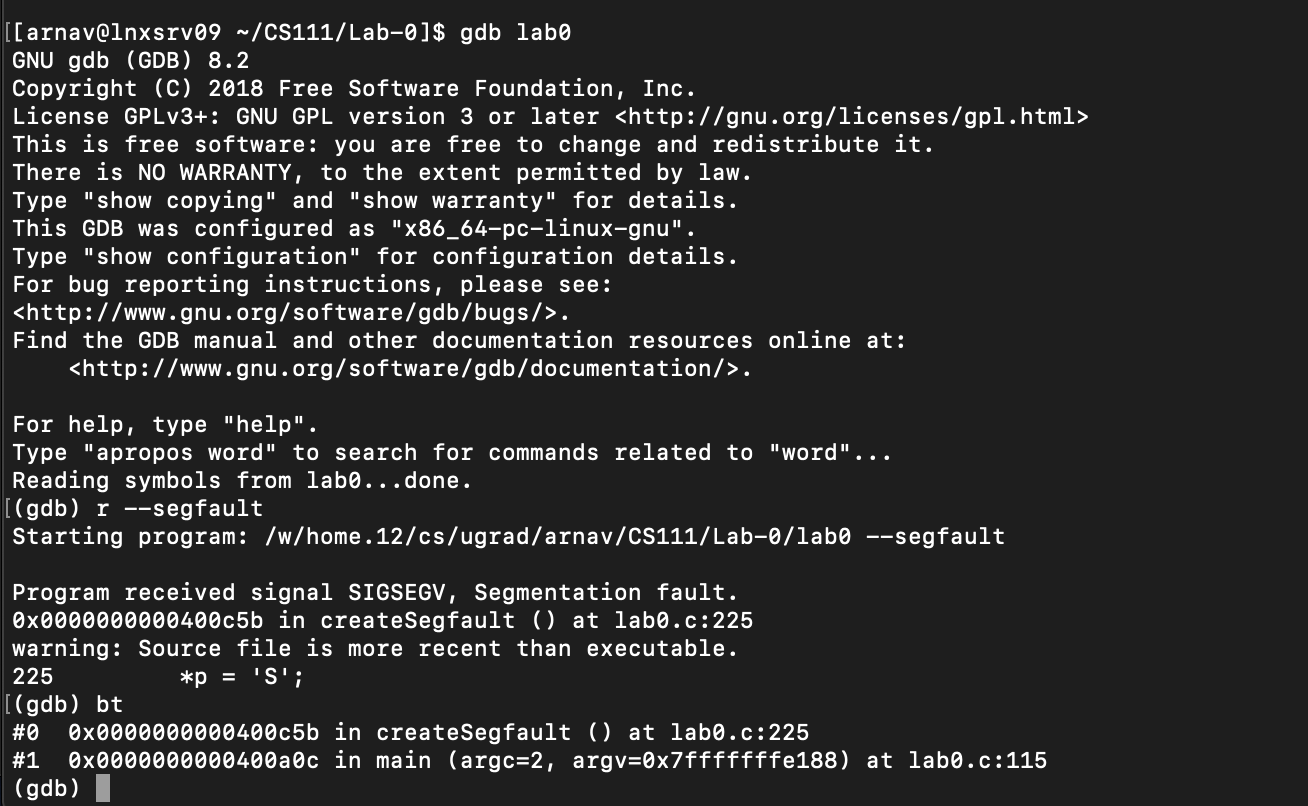
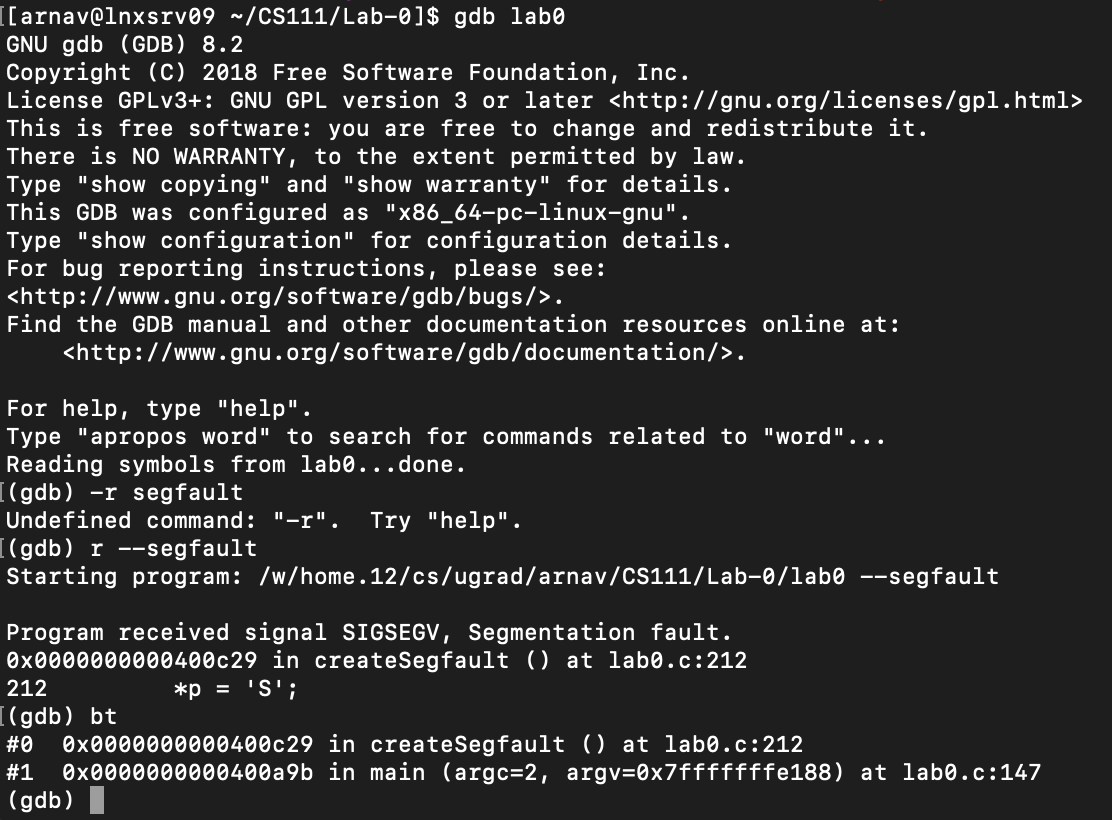
Updated lab0.c and README for Lab-0

Changed region(s): [[0.0, 0.0, 0.9784, 1.0], [0.7032, 0.5273, 0.7644, 0.5583]]

diff --git a/Lab-0/lab0.c b/Lab-0/lab0.c
@@ -60,18 +60,19 @@ int main(int argc, char* argv[]){
         {0,0,0,0}
     };
 
-    //Variables to keep track of 
-    char* infile_name = NULL;
-    char* outfile_name = NULL;
+    //Variables to keep track of:
     int catch_flag = 0;
-    int seg_flag = 0;
-    int dump_flag = 0;
     int choice, outfile_fd, infile_fd;
 
     //int getopt(int argc, char *const argv[], const char *optstring)
     /*int getopt_long(int argc, char * const argv[], const char *optstring, 
                         const struct option *longopts, int *longindex);*/
     //More info: http://man7.org/linux/man-pages/man3/getopt.3.html
+    /*getopt_long works as follows:
+        1. If no options, returns -1 and skips while loop.
+        2. If options, checks if all flags are valid. If yes, then
+        3. Processes each flag in order from left to right
+    */
     while ((choice = getopt_long(argc,argv,"",choices,NULL)) != -1){
         /*Set flags and options correctly so they can be used after the while
         loop*/
@@ -79,115 +80,90 @@ int main(int argc, char* argv[]){
             case input: 
                 /*optarg contains argument for the given flag*/
                 /*incase of error/failure, optarg is set to null*/
-                infile_name = optarg;
+                if (optarg) {
+                    infile_fd = open(optarg, O_RDONLY);
+                    /* 
+                    Spec: File Descriptor Management
+                    int ifd = open(newfile, O_RDONLY);
+                    if (ifd >= 0) {
+	                    close(0);
+	                    dup(ifd);
+	                    close(ifd);
+                    }
+                    */
+                    if (infile_fd >= 0){
+                        //Close stdin and destroy its file table entry
+                        close(0);
+                        //Set infile file_descriptor to 0 (stdin)
+                        dup2(infile_fd,0);
+                        //Close infile_fd
+                        close(infile_fd);
+                    } 
+                    else {
+                        /*If no file found, print to stderr and exit with status 2*/
+                        /*errno is set by system calls and some library functions in the event 
+                        of an error to indicate what went wrong. Don't explicitly define it. */
+                        /*sterror returns a pointer to a string that describes
+                        the error code passed in the argument*/
+                        //Else, infile_fd == -1 which indicates an error while opening the file
+                        fprintf(stderr, "Cannot open input file: %d - %s\n", errno, strerror(errno));
+				        exit(2);
+                    }     
+                }
                 break;
             case output:
-                outfile_name = optarg;
+                if (optarg) {
+                    // Check if file exists and create the file specified 
+                    // if file exists, it is automatically truncated
+                    // Set permissions for the file created to rw-
+                    // creat is the same as open(filepath, O_WRONLY | O_CREAT | O_TRUNC, 0666);
+                    outfile_fd = creat(optarg, 0666);
+                    /* 
+                    Spec: File Descriptor Management
+                    int ofd = creat(newfile, 0666);
+                    if (ofd >= 0) {
+	                    close(1);
+	                    dup(ofd);
+	                    close(ofd);
+                    }
+                    */
+                    //If the returned file descriptor is >= 0
+                    if (outfile_fd >= 0){
+                        //Close stdout and destroy its file table entry
+                        close(1);
+                        //Set outfile's fd to 1 (stdout) + silently close 
+                        dup2(outfile_fd, 1);
+                        //Close outfile_fd
+                        close(outfile_fd);
+                    } else {
+                        //File could not be created/truncated. Print to stderr and exit with status 3.
+                        fprintf(stderr, "Cannot create or truncate output file:  %d - %s\n", errno, strerror(errno));
+                        exit(3);
+                    }
+                }
                 break;
             case segf:
-                seg_flag = 1;
+                //Call the createSegfault() method to immediately cause a segfault.
+                createSegfault();
                 break;
             case catch:
+                //Set catch_flag to 1 (for dump case)
                 catch_flag = 1;
+                /* If a segfault is called after this line, instead of breaking out of the
+                program or going into an infinity loop (depending on the OS), it calls 
+                the segfault_handler method to handle the segmentation fault */
+                signal(SIGSEGV, segfault_handler);
                 break;
             case dump:
-                dump_flag = 1;
+                /*If dump-core is passed in by itself, do nothing
+                If segfault is passed in before dump-core, doesn't matter
+                If catch is passed in before dump-core, call dumpCore method.*/
+                if (catch_flag){dumpCore();}
                 break;
             default:
                 //If wrong/unrecognized flag is passed in, call the icorrectOptions method
                 incorrectOptions();
                 break;
-        }
-    }
-
-    //csd
-    //000 -> Already taken care of this situation
-    //001 -> if only dump, pretty pointless because there's no point in dumping the core
-    //010 -> if only segfault, then create segfault with RC: 139
-    //011 -> if segfault + dump, then we want to dump the core after causing a segfault
-    //100 -> if just catch, raise the signal but results in an infinite loop
-    //101 -> if catch and dump, essentially do nothing 
-    //110 -> catch + seg -> return exit code 4
-    //111 -> catch + seg + dump
-
-    //Creates a segfault signal and calls the segfault_handler method. 
-    //If no handler method specified, the signal goes into an inifinite loop by default.
-    if (catch_flag) {
-        //Create signal so program knows how to handle segfaults from here
-        signal(SIGSEGV, segfault_handler);
-    }
-
-    //If dump_flag set to 1, check if catch or segfault are also passed as arguments.
-    //If yes, call dumpCore(), otherwise do nothing because we don't want to exit prematurely.
-    if (dump_flag) {
-       if (catch_flag || seg_flag) {
-            dumpCore();
-       }
-    }
-
-    //If seg_flag set to 1, create a segmentation fault
-    if (seg_flag) {
-        createSegfault();
-    }
-
-    if (infile_name) {
-        infile_fd = open(infile_name, O_RDONLY);
-            /* 
-            Spec: File Descriptor Management
-            int ifd = open(newfile, O_RDONLY);
-                if (ifd >= 0) {
-	                close(0);
-	                dup(ifd);
-	                close(ifd);
-                }
-            */
-            if (infile_fd >= 0){
-                //Close stdin and destroy its file table entry
-                close(0);
-                //Set infile file_descriptor to 0 (stdin)
-                dup2(infile_fd,0);
-                //Close infile_fd
-                close(infile_fd);
-            }
-            else {
-                /*If no file found, print to stderr and exit with status 1*/
-                /*errno is set by system calls and some library functions in the event 
-                of an error to indicate what went wrong. Don't explicitly define it. */
-                /*sterror returns a pointer to a string that describes
-                the error code passed in the argument*/
-                //Else, infile_fd == -1 which indicates an error while opening the file
-                fprintf(stderr, "Cannot open input file: %d - %s", errno, strerror(errno));
-				exit(2);
-        }     
-    }
-
-    if (outfile_name) {
-        // Check if file exists and create the file specified 
-        // if file exists, it is automatically truncated
-        // Set permissions for the file created to rw-
-        // creat is the same as open(filepath, O_WRONLY | O_CREAT | O_TRUNC, 0666);
-        outfile_fd = creat(outfile_name, 0666);
-        /* 
-        Spec: File Descriptor Management
-        int ofd = creat(newfile, 0666);
-            if (ofd >= 0) {
-	        close(1);
-	        dup(ofd);
-	        close(ofd);
-        }
-        */
-        //If the returned file descriptor is >= 0
-        if (outfile_fd >= 0){
-            //Close stdout and destroy its file table entry
-            close(1);
-            //Set outfile's fd to 1 (stdout) + silently close 
-            dup2(outfile_fd, 1);
-            //Close outfile_fd
-            close(outfile_fd);
-        } else {
-            //File could not be created/truncated. Print to stderr and exit with status 2.
-            fprintf(stderr, "Cannot create or truncate output file:  %d - %s", errno, strerror(errno));
-            exit(3);
         }
     }
 
@@ -200,20 +176,20 @@ int main(int argc, char* argv[]){
     while ((r = read(0,buffer,sizeof(char))) > 0) {
         //Check for read-in errorr or signal interrupt
         if (r == (size_t)-1) {
-            fprintf(stderr, "Error reading from file/stdout: %s", strerror(errno));
+            fprintf(stderr, "Error reading from file/stdout: %s\n", strerror(errno));
             exit(5);
         }
         //Write one byte to stdout
         w = write(1,buffer,sizeof(char));
         //Check if write system call fails and print to stderr
         if ((int)w < 0){
-            fprintf(stderr, "Unable to write to stdout: %d - %s", errno, strerror(errno));
+            fprintf(stderr, "Unable to write to stdout: %d - %s\n", errno, strerror(errno));
             exit(6);
         } 
         //Number of bytes read should equal number of bytes written
         else if (w != r) {
             fprintf(stderr,"Number of bytes read from stdin does not equal number of bytes written to stdout. \
-                        Bytes read: %d; Bytes written: %d",(int)r,(int)w);
+                        Bytes read: %d; Bytes written: %d\n",(int)r,(int)w);
             exit(7);
         }
     }
@@ -239,20 +215,22 @@ void createSegfault() {
 }
 
 //Print to stderr and exit if segfault is caught
-void segfault_handler(int num){
+void segfault_handler(int num) {
     if (num == SIGSEGV){
-        fprintf(stderr, "SIGSEGV signal caught: error number: %d; message: %s", errno, strerror(errno));
+        fprintf(stderr, "SIGSEGV signal caught: error number: %d; message: %s\n", errno, strerror(errno));
         exit(4);
     }
 }
 
-//Dump core used to reset Catch
-void dumpCore(){
-    exit(139);
+//dumpCore method
+void dumpCore() {
+    /*reset signal for segmentation fault to default 
+    instead of calling segfault_handler and exit with status 139*/
+    signal(SIGSEGV, SIG_DFL);
 }
 
 //If wrong flag/option is passed into the program
-void incorrectOptions(){
-    printf("Only valid options are --input=filename, --output=filename, --catch, --segfault and --dump-core");
+void incorrectOptions() {
+    fprintf(stderr, "Only valid options are --input=filename, --output=filename, --catch, --segfault and --dump-core\n");
     exit(1);
 }
